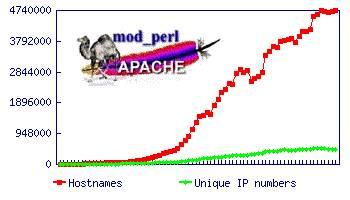
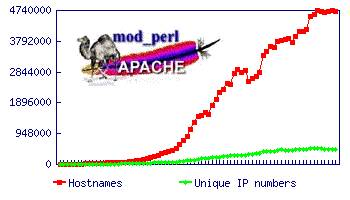
Oct 2003 data PR: Obtained from: Submitted by: Reviewed by:
git-svn-id: https://svn.apache.org/repos/asf/perl/modperl/docs/trunk@67375 13f79535-47bb-0310-9956-ffa450edef68

Changed region(s): [[0.2286, 0.03, 0.9714, 0.84], [0.9714, 0.0, 1.0, 0.03]]

diff --git a/src/outstanding/stats/netcraft.html b/src/outstanding/stats/netcraft.html
@@ -24,13 +24,14 @@ survey.
 </p>
 
 <!-- monthly reports can be retrieved from
-http://www.netcraft.com/survey/Reports/0310/mod_perl.txt, adjust the
+http://www.netcraft.com/survey/Reports/0311/mod_perl.txt, adjust the
 year/month if needed. used to be
 http://www.netcraft.com/survey/Reports/200206/mod_perl.txt till July
 2002 -->
 
 <table cellpadding="3" border="1" cellspacing="0">
 <tr><th>Survey</th><th>Hostnames</th><th>Unique IP Addresses</th></tr>
+<tr><td> October 2003   </td><td>4720715</td><td>458887</td></tr>
 <tr><td> September 2003 </td><td>4739151</td><td>451753</td></tr>
 <tr><td> August 2003    </td><td>4705370</td><td>450392</td></tr>
 <tr><td> July 2003      </td><td>4691841</td><td>469832</td></tr>

diff --git a/src/outstanding/stats/securityspace.html b/src/outstanding/stats/securityspace.html
@@ -12,7 +12,7 @@ Module Report on mod_perl</a> comprising statistics and a graph based
 on the data collected by <a
 href="http://www.securityspace.com/">www.securityspace.com</a>. They
 also feature <a
-href="http://www.securityspace.com/s_survey/data/man.200309/apachemods.html">a
+href="http://www.securityspace.com/s_survey/data/man.200310/apachemods.html">a
 comparison</a> between all the Apache modules they survey.  </p>
 
 </body>
